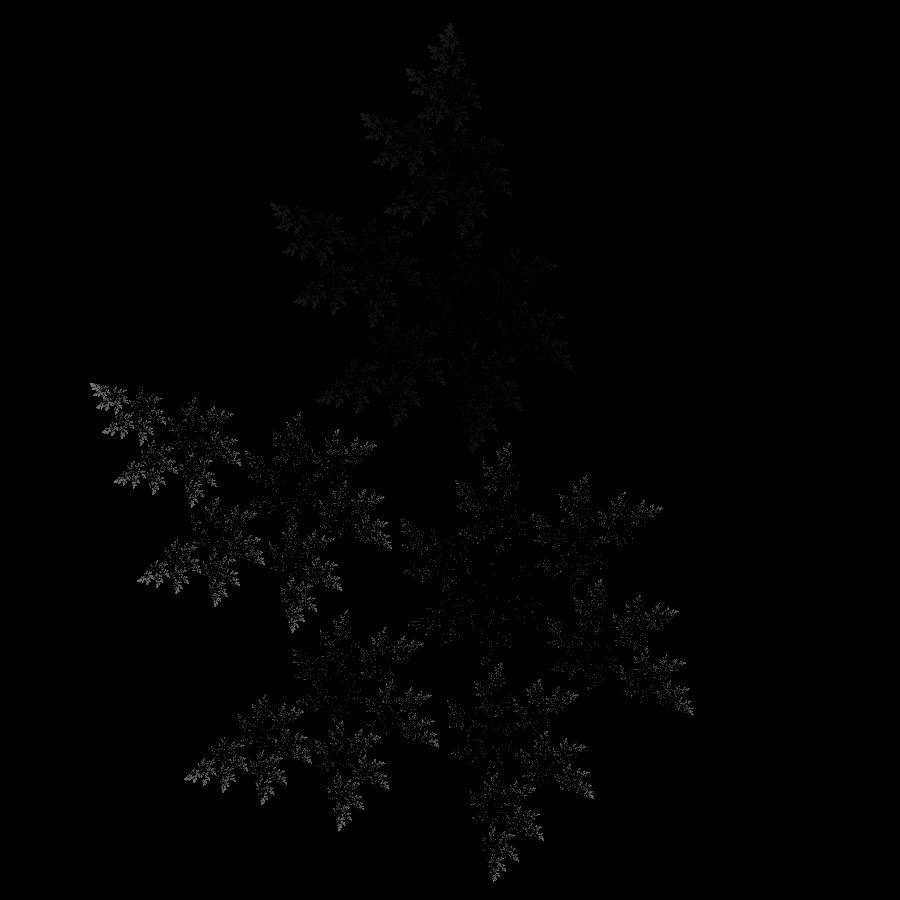
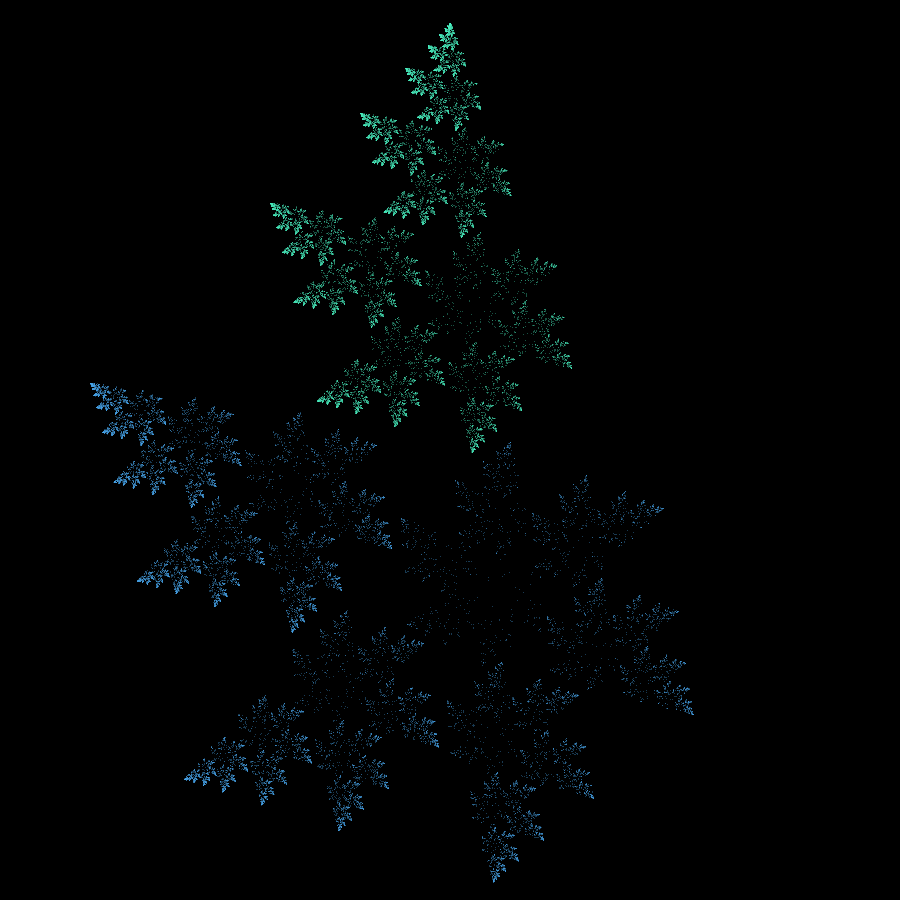
added color mapping

diff --git a/ifs_chaos_game.py b/ifs_chaos_game.py
@@ -132,7 +132,7 @@ def gamma_correction(gamma, point_colors, point_frequencies):
     alpha = np.log(point_frequencies) / np.log(point_frequencies_max)
     # alpha[alpha < 0] = 0
     # alpha += alpha.min()
-    final_pixel_colors = point_colors * (alpha ** (1 / gamma))
+    final_pixel_colors = point_colors * (alpha ** (1 / gamma))[:, :, None]
     return final_pixel_colors
 
 
@@ -151,8 +151,8 @@ def main(n=200000, visualize_algorithm=False):
 
     # number of times a pixel is landed on
     point_frequencies = np.zeros((pixels_width, pixels_height))
-    point_colors = np.zeros((pixels_width, pixels_height))
-    function_colors = [0.1, 0.5, 1.0]
+    point_colors = np.zeros((pixels_width, pixels_height, 3))
+    function_colors = np.array([[0.3, 1.0, 0.8], [0.3, 0.7, 1.0]])
     # final_transform, transformations = goal2_transformations()
     final_transform, transformations = goal1_transformations()
 
@@ -198,7 +198,7 @@ def process_and_save(density_alpha, epsilon, gamma, max_kernel_radius, point_col
     point_frequencies += epsilon
     adaptive_filtering = True
     if adaptive_filtering:
-        point_frequencies_filtered = adaptive_filter(density_alpha, max_kernel_radius, point_frequencies, point_colors)
+        point_frequencies_filtered = adaptive_filter(density_alpha, max_kernel_radius, point_frequencies)
         final_pixel_colors_filtered = gamma_correction(gamma, point_colors, point_frequencies_filtered)
         imageio.imwrite('result_adaptive_filtered.png', final_pixel_colors_filtered)
 
